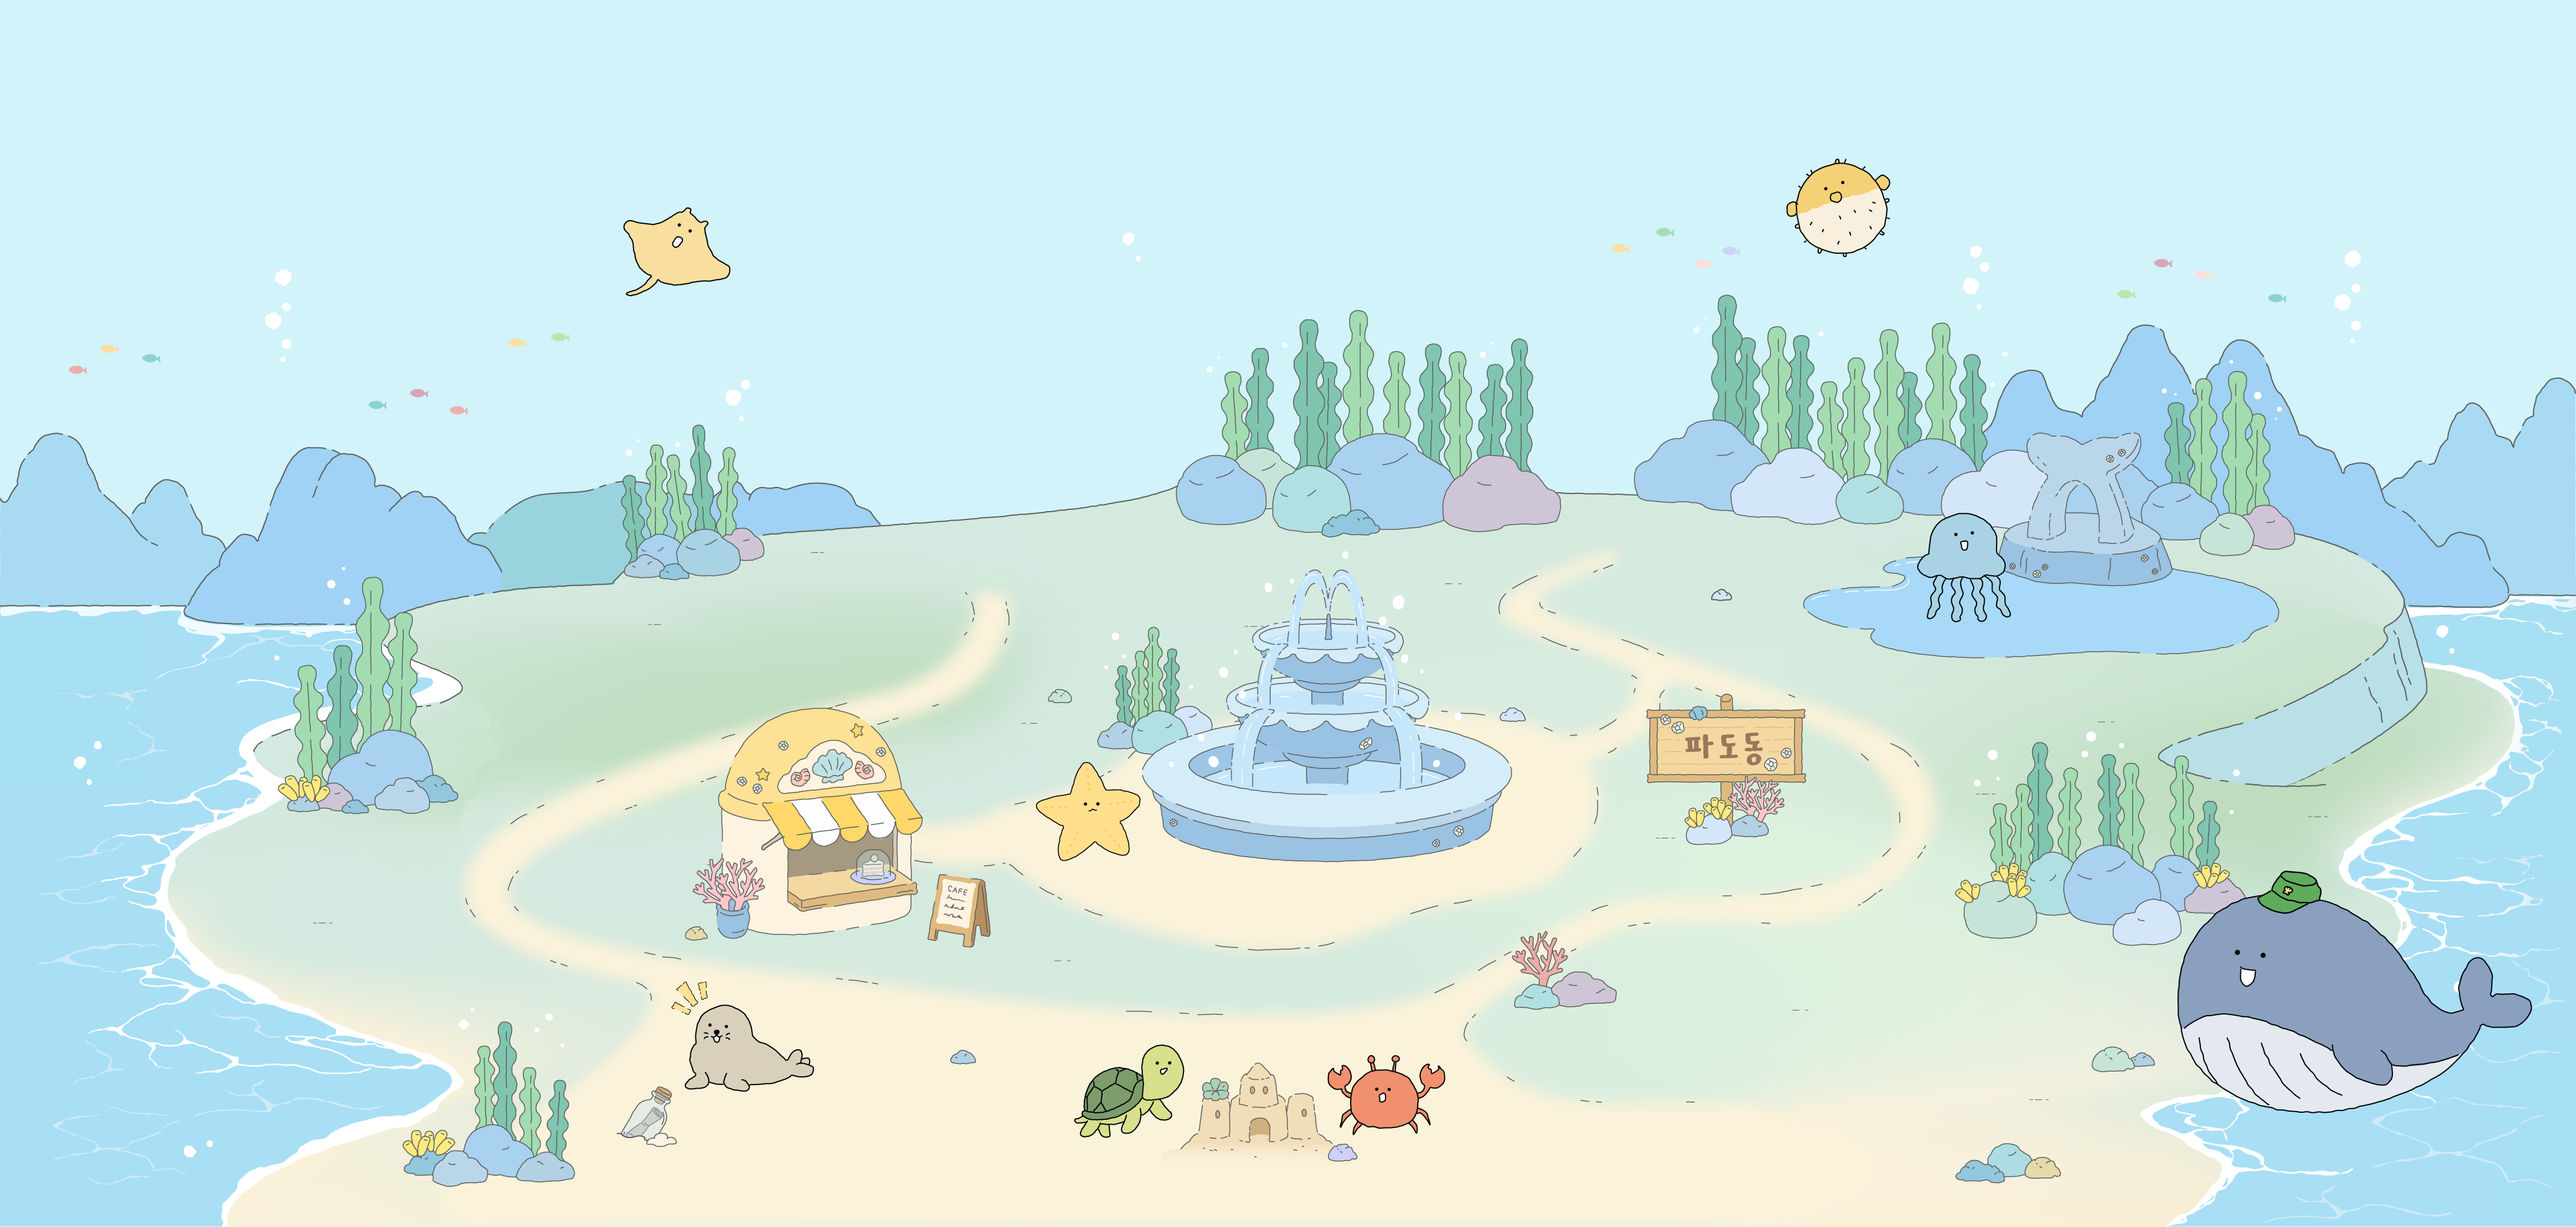
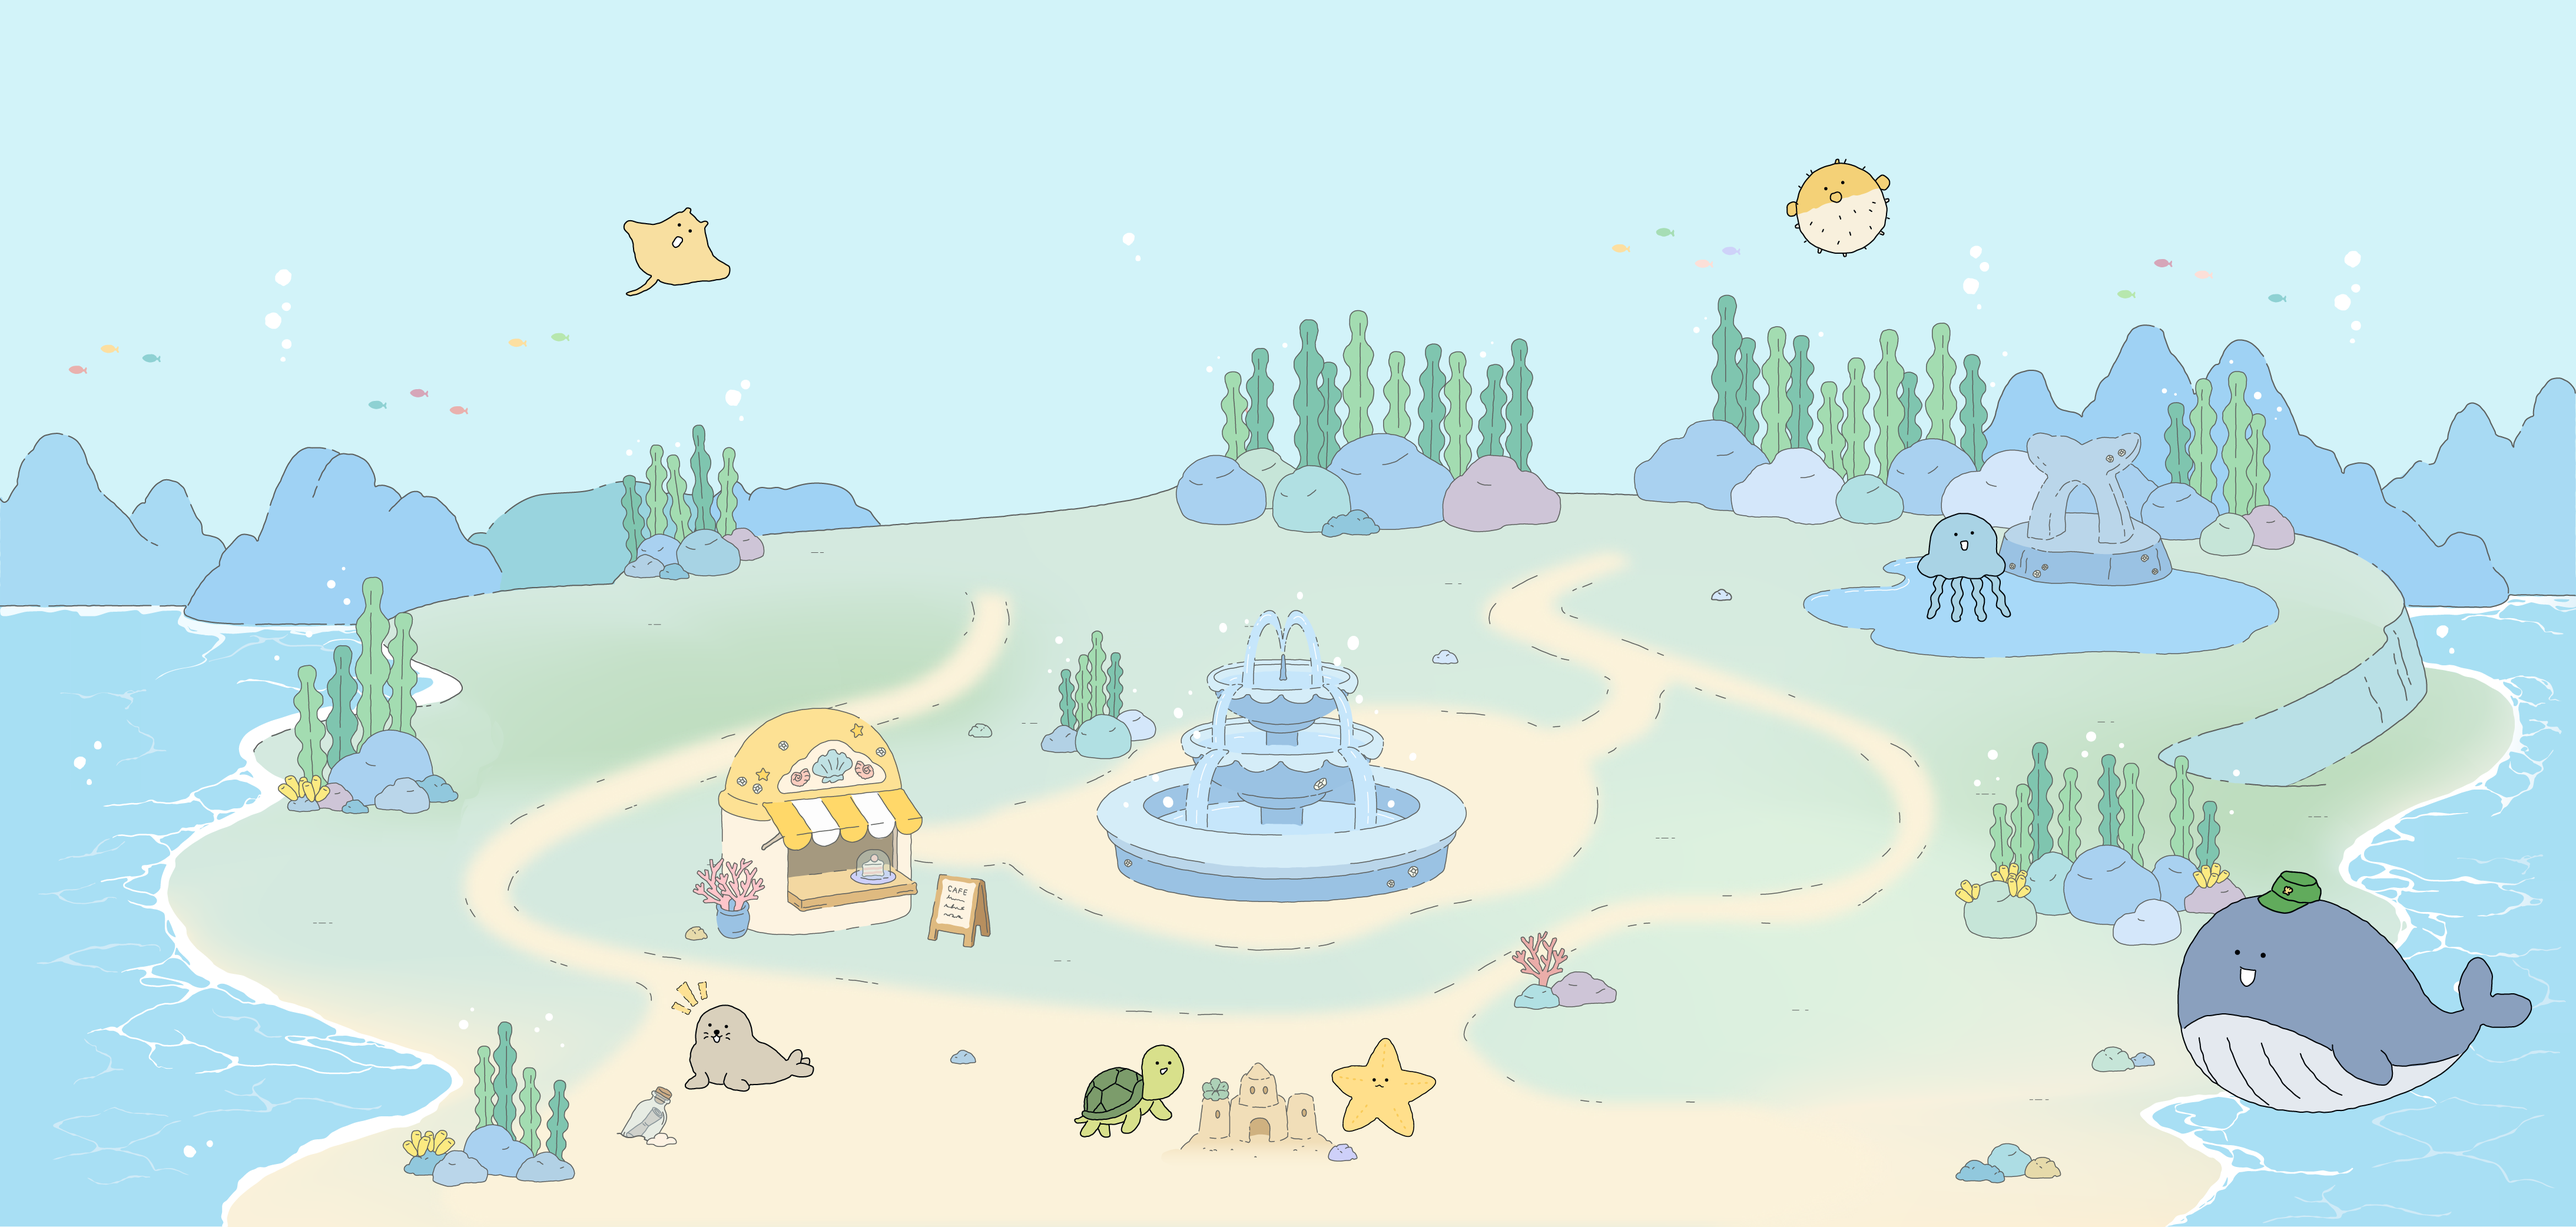
메인건물 애니메이션 완성(3일걸림 . . .)

Changed region(s): [[0.4041, 0.4679, 0.5906, 0.7486], [0.6217, 0.5302, 0.715, 0.6862], [0.4974, 0.8421, 0.5595, 0.9357]]

diff --git a/css/main_animation.css b/css/main_animation.css
@@ -98,11 +98,11 @@
 
 /* 물방울: 화이트 계열, 미스트처럼 퍼지며 사라짐 */
 .droplet {
-    fill: rgba(255, 255, 255, 0.98);
+    fill: rgba(255, 255, 255, 0.7);
     opacity: 0;
     transform-box: fill-box;
     transform-origin: center;
-    filter: drop-shadow(0 0 1px rgba(60, 140, 165, 0.55)) drop-shadow(0 0 3px rgba(200, 240, 250, 0.4));
+    filter: drop-shadow(0 0 10px rgba(60, 140, 165, 0.3)) drop-shadow(0 0 3px rgba(200, 240, 250, 0.25));
 }
 
 .main-characters:hover .droplet {
@@ -115,22 +115,22 @@
 @keyframes dropletFade {
     0% {
         opacity: 0;
-        transform: translate(0, 0) scale(0.5);
+        transform: translate(0, 0) scale(0.29, 0.66);
     }
 
     10% {
         opacity: 1;
-        transform: translate(0, 0) scale(1);
+        transform: translate(0, 0) scale(0.57, 0.98);
     }
 
     40% {
         opacity: 0.95;
-        transform: translate(calc(var(--dx) * 0.4), -2px) scale(1.15);
+        transform: translate(calc(var(--dx) * 0.4), -2px) scale(0.66, 1.07);
     }
 
     100% {
         opacity: 0;
-        transform: translate(var(--dx), -6px) scale(1.7);
+        transform: translate(var(--dx), -6px) scale(0.66, 1.15);
     }
 }
 
@@ -212,18 +212,10 @@
 }
 
 .beacon-link:hover .beam-group {
-    animation: spin 2.5s linear infinite, glowPulse 2.5s ease-in-out infinite;
+    opacity: 1;
+    animation: glowPulse 2.5s ease-in-out infinite;
 }
 
-@keyframes spin {
-    from {
-        transform: rotate(0deg);
-    }
-
-    to {
-        transform: rotate(360deg);
-    }
-}
 
 @keyframes glowPulse {
     0% {
@@ -231,7 +223,7 @@
     }
 
     25% {
-        opacity: .4;
+        opacity: .3;
     }
 
     50% {
@@ -239,7 +231,7 @@
     }
 
     75% {
-        opacity: .4;
+        opacity: .3;
     }
 
     100% {
@@ -251,7 +243,7 @@
     position: absolute;
     top: 0;
     left: 0;
-    width: 125px;
+    width: 123px;
     height: 25px;
     transform-origin: 0% 50%;
     transform: translateY(-50%);
@@ -288,16 +280,6 @@
     animation: pulseCore 1s ease-in-out infinite alternate;
 }
 
-@keyframes pulseCore {
-    from {
-        box-shadow: 0 0 4px 2px rgba(255, 238, 88, .9), 0 0 8px 4px rgba(255, 238, 88, .4);
-    }
-
-    to {
-        box-shadow: 0 0 6px 3px rgba(255, 238, 88, 1), 0 0 12px 6px rgba(255, 238, 88, .6);
-    }
-}
-
 
 /* =======================================================
                         콘텐츠
@@ -306,20 +288,13 @@
     position: relative;
 }
 
-/* ========================================
-   콘텐츠 건물 Hover 이미지
-======================================== */
-
 .contents-hover {
     position: absolute;
     z-index: 5;
     pointer-events: none;
 }
 
-/* ========================================
-   편지
-======================================== */
-
+/* 편지-animation */
 .contents-mail {
     position: absolute;
     /* 우체통 투입구 위치 */
@@ -333,4 +308,39 @@
     /* 처음에는 우체통 안쪽에 숨어있는 상태 */
     transform: translate(0, 0) scale(0.5) rotate(0deg);
     z-index: 10;
+}
+
+
+/* =======================================================
+                        프로젝트
+=========================================================*/
+.main-projects a>img {
+    transform-origin: 50% 85%;
+    transition: transform 0.2s ease;
+}
+
+.main-projects:hover a>img {
+    animation: boat-float 2.3s ease-in-out infinite;
+}
+
+@keyframes boat-float {
+    0% {
+        transform: rotate(0deg) translateY(0px);
+    }
+
+    20% {
+        transform: rotate(-2.2deg) translateY(-2px);
+    }
+
+    45% {
+        transform: rotate(1deg) translateY(1px);
+    }
+
+    70% {
+        transform: rotate(2.2deg) translateY(-1.5px);
+    }
+
+    100% {
+        transform: rotate(0deg) translateY(0px);
+    }
 }

diff --git a/js/mainAnimation.js b/js/mainAnimation.js
@@ -4,6 +4,10 @@
 // GSAP 플러그인 등록
 gsap.registerPlugin(MotionPathPlugin);
 
+
+/* ==========================================================
+                            콘텐츠
+============================================================ */
 const mailCard = document.querySelector('.main-contents');
 const targetMail = document.querySelector('.contents-mail');
 
@@ -60,4 +64,96 @@ mailCard.addEventListener('mouseenter', () => {
 
 mailCard.addEventListener('mouseleave', () => {
     mailTimeline.pause(0);  // 마우스 나가면 정지 및 초기화
+});
+
+
+/* ===================================================================
+                                팝업
+=================================================================== */
+document.addEventListener('DOMContentLoaded', () => {
+  const popup = document.querySelector('.main-popup');
+  const crab = document.querySelector('.crab');
+
+  let animId = null;
+  let progress = 0;   // 0 ~ 1 (0: 원래 자리, 1: 목적지)
+  let direction = 1;  // 1: 목적지로 이동, -1: 원래 자리로 복귀
+  let path = null;
+
+  // 두 요소의 현재 화면상 실제 위치를 기준으로 이동 경로(베지어 곡선) 계산
+  function calculatePath() {
+    const crabRect = crab.getBoundingClientRect();
+    const popupRect = popup.getBoundingClientRect();
+
+    const crabCenter = {
+      x: crabRect.left + crabRect.width / 2,
+      y: crabRect.top + crabRect.height / 1.45
+    };
+    const popupCenter = {
+        x: popupRect.left + popupRect.width * 0.15,
+        y: popupRect.bottom - popupRect.height * 0.025
+    };
+
+    const dx = popupCenter.x - crabCenter.x;
+    const dy = popupCenter.y - crabCenter.y;
+
+    /* S코스 휘어진 정도 */
+    const curveStrength = 0.8;
+
+    const curveStrength1 = curveStrength * 2.5;
+    const curveStrength2 = curveStrength * 0.1;
+
+    const perpX = -dy;
+    const perpY = dx;
+
+    // S자의 세로 길이(키)를 조절하는 배율. 1보다 커지면 위로 더 솟구쳤다가 내려오는 느낌이 강해짐
+    const verticalStretch = 1.5;
+
+    return [
+      { x: 0, y: 0 },
+      {
+        x: dx * 0.3 + perpX * curveStrength1,
+        y: (dy * 0.3 + perpY * curveStrength1) * verticalStretch
+      },
+      {
+        x: dx * 0.7 - perpX * curveStrength2,
+        y: (dy * 0.7 - perpY * curveStrength2) * verticalStretch
+      },
+      { x: dx, y: dy }
+    ];
+  }
+
+  function cubicBezier(t, p0, p1, p2, p3) {
+    const mt = 1 - t;
+    const x = mt*mt*mt*p0.x + 3*mt*mt*t*p1.x + 3*mt*t*t*p2.x + t*t*t*p3.x;
+    const y = mt*mt*mt*p0.y + 3*mt*mt*t*p1.y + 3*mt*t*t*p2.y + t*t*t*p3.y;
+    return { x, y };
+  }
+
+  function easeInOutSine(t) {
+    return -(Math.cos(Math.PI * t) - 1) / 2;
+  }
+
+  function animate() {
+    progress += 0.01 * direction;
+    progress = Math.max(0, Math.min(1, progress));
+
+    const eased = easeInOutSine(progress);
+    const pos = cubicBezier(eased, path[0], path[1], path[2], path[3]);
+
+    crab.style.transform = `translate(${pos.x}px, ${pos.y}px)`;
+
+    const stillGoing = (direction === 1 && progress < 1) || (direction === -1 && progress > 0);
+    animId = stillGoing ? requestAnimationFrame(animate) : null;
+  }
+
+  popup.addEventListener('mouseenter', () => {
+    if (!path) path = calculatePath();
+    direction = 1;
+    if (!animId) animId = requestAnimationFrame(animate);
+  });
+
+  popup.addEventListener('mouseleave', () => {
+    direction = -1;
+    if (!animId) animId = requestAnimationFrame(animate);
+  });
 });

diff --git a/index.html b/index.html
@@ -13,6 +13,10 @@
     <script src="js/common.js" defer></script>
     <script src="js/mainScript.js" defer></script>
     <script src="js/mainAnimation.js" defer></script>
+
+    <!-- GSAP Core 및 MotionPathPlugin 라이브러리 추가 -->
+    <script src="https://cdnjs.cloudflare.com/ajax/libs/gsap/3.12.2/gsap.min.js"></script>
+    <script src="https://cdnjs.cloudflare.com/ajax/libs/gsap/3.12.2/MotionPathPlugin.min.js"></script>
 </head>
 
 <body>
@@ -148,10 +152,6 @@
                     <div class="beacon-core"></div>
                 </a>
             </div>
-
-            <!-- GSAP Core 및 MotionPathPlugin 라이브러리 추가 -->
-            <script src="https://cdnjs.cloudflare.com/ajax/libs/gsap/3.12.2/gsap.min.js"></script>
-            <script src="https://cdnjs.cloudflare.com/ajax/libs/gsap/3.12.2/MotionPathPlugin.min.js"></script>
             <div class="main-gnb main-contents">
                 <a href="sub-contents.html">
                     <div class="gnb-hover contents-hover">
@@ -169,6 +169,7 @@
                     <img src="img/main/main_popup.png" alt="조개시장(팝업공간)">
                 </a>
             </div>
+            <img src="img/MOONYZ/찡이.png" alt="" class="crab">
             <div class="main-gnb main-projects">
                 <a href="sub-projects.html">
                     <div class="gnb-hover projects-hover">
@@ -176,6 +177,9 @@
                     </div>
                     <img src="img/main/main_projects.png" alt="돛단배(무니즈 프로젝트)">
                 </a>
+            </div>
+            <div class="padodong">
+                <img src="img/main/main_marker.png" alt="">
             </div>
         </div>
 

diff --git a/css/main.css b/css/main.css
@@ -57,11 +57,30 @@ body {
     right: 32.5%;
 }
 
+#main-visual .crab {
+    position: absolute;
+    top: 55%;
+    right: 38%;
+    width: 100px;
+    height: auto;
+    z-index: 76;
+    will-change: transform;
+}
+
 #main-visual .main-projects {
     width: 200px;
     position: absolute;
     top: 66%;
     left: 3%;
+}
+
+.padodong img {
+    width: 124px;
+    height: auto;
+    position: absolute;
+    top: 55%;
+    right: 30%;
+    z-index: 77;
 }
 
 /* 메인 GNB hover시 나타나는 말풍선 */
